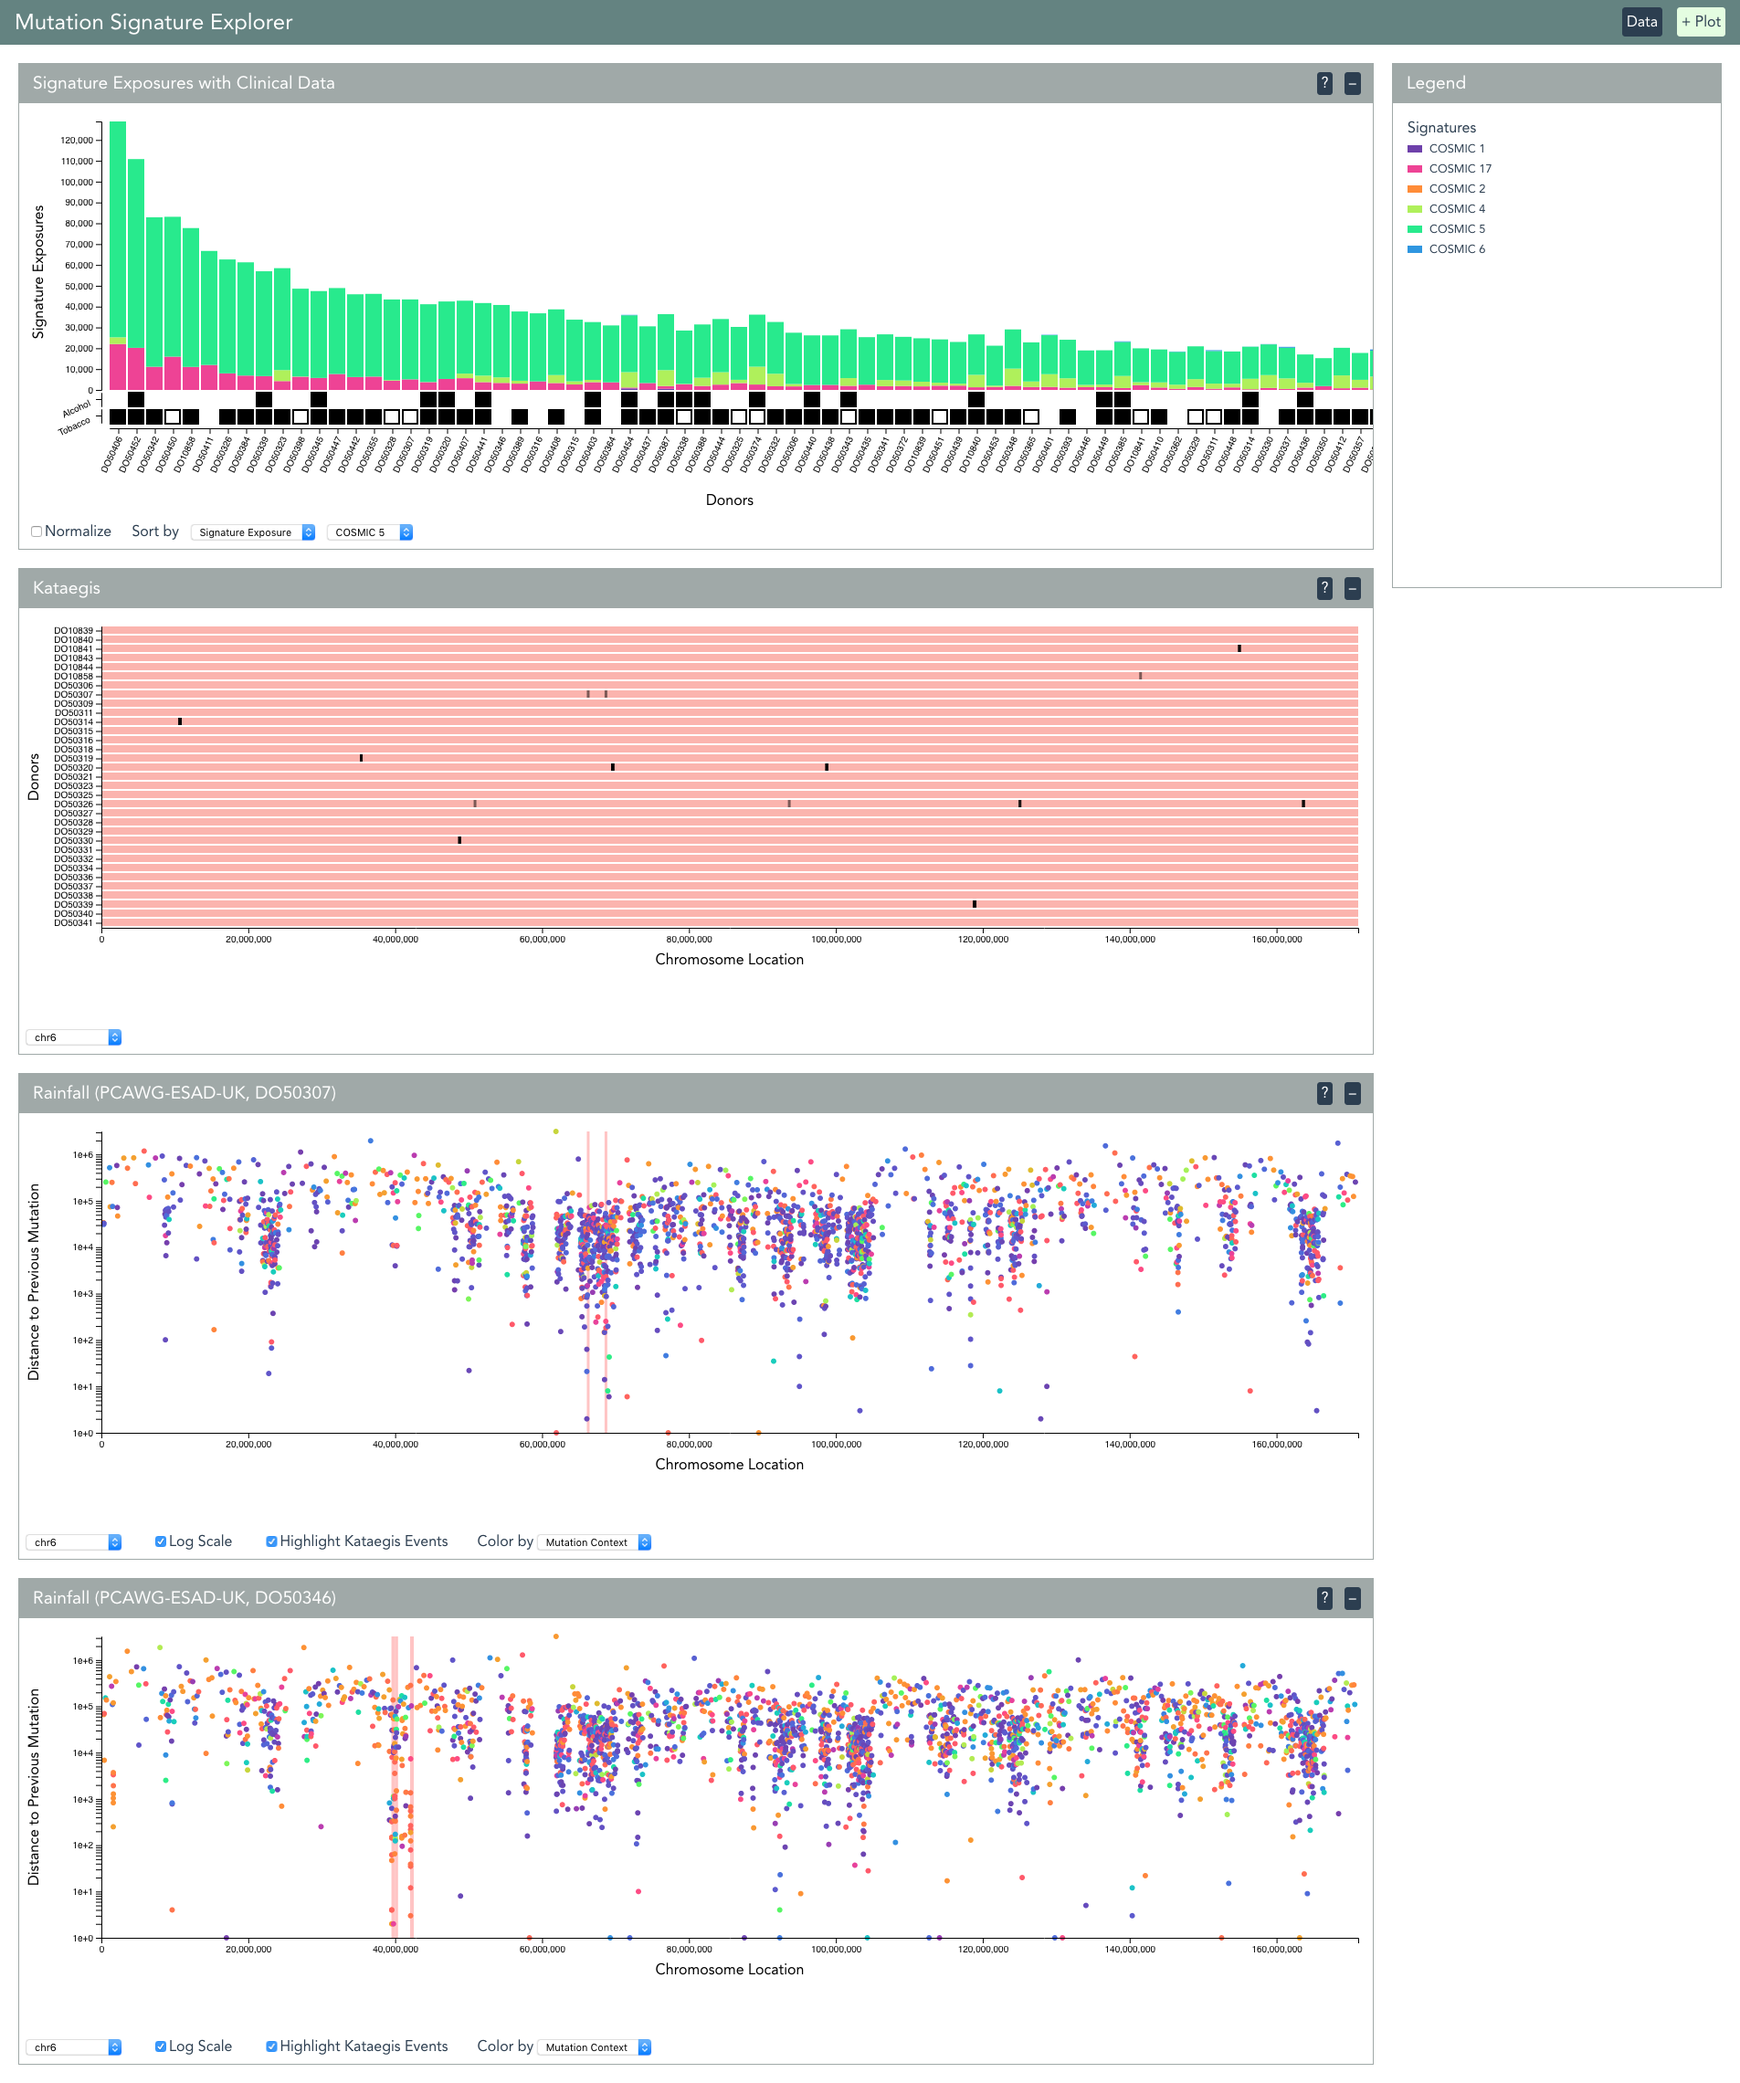
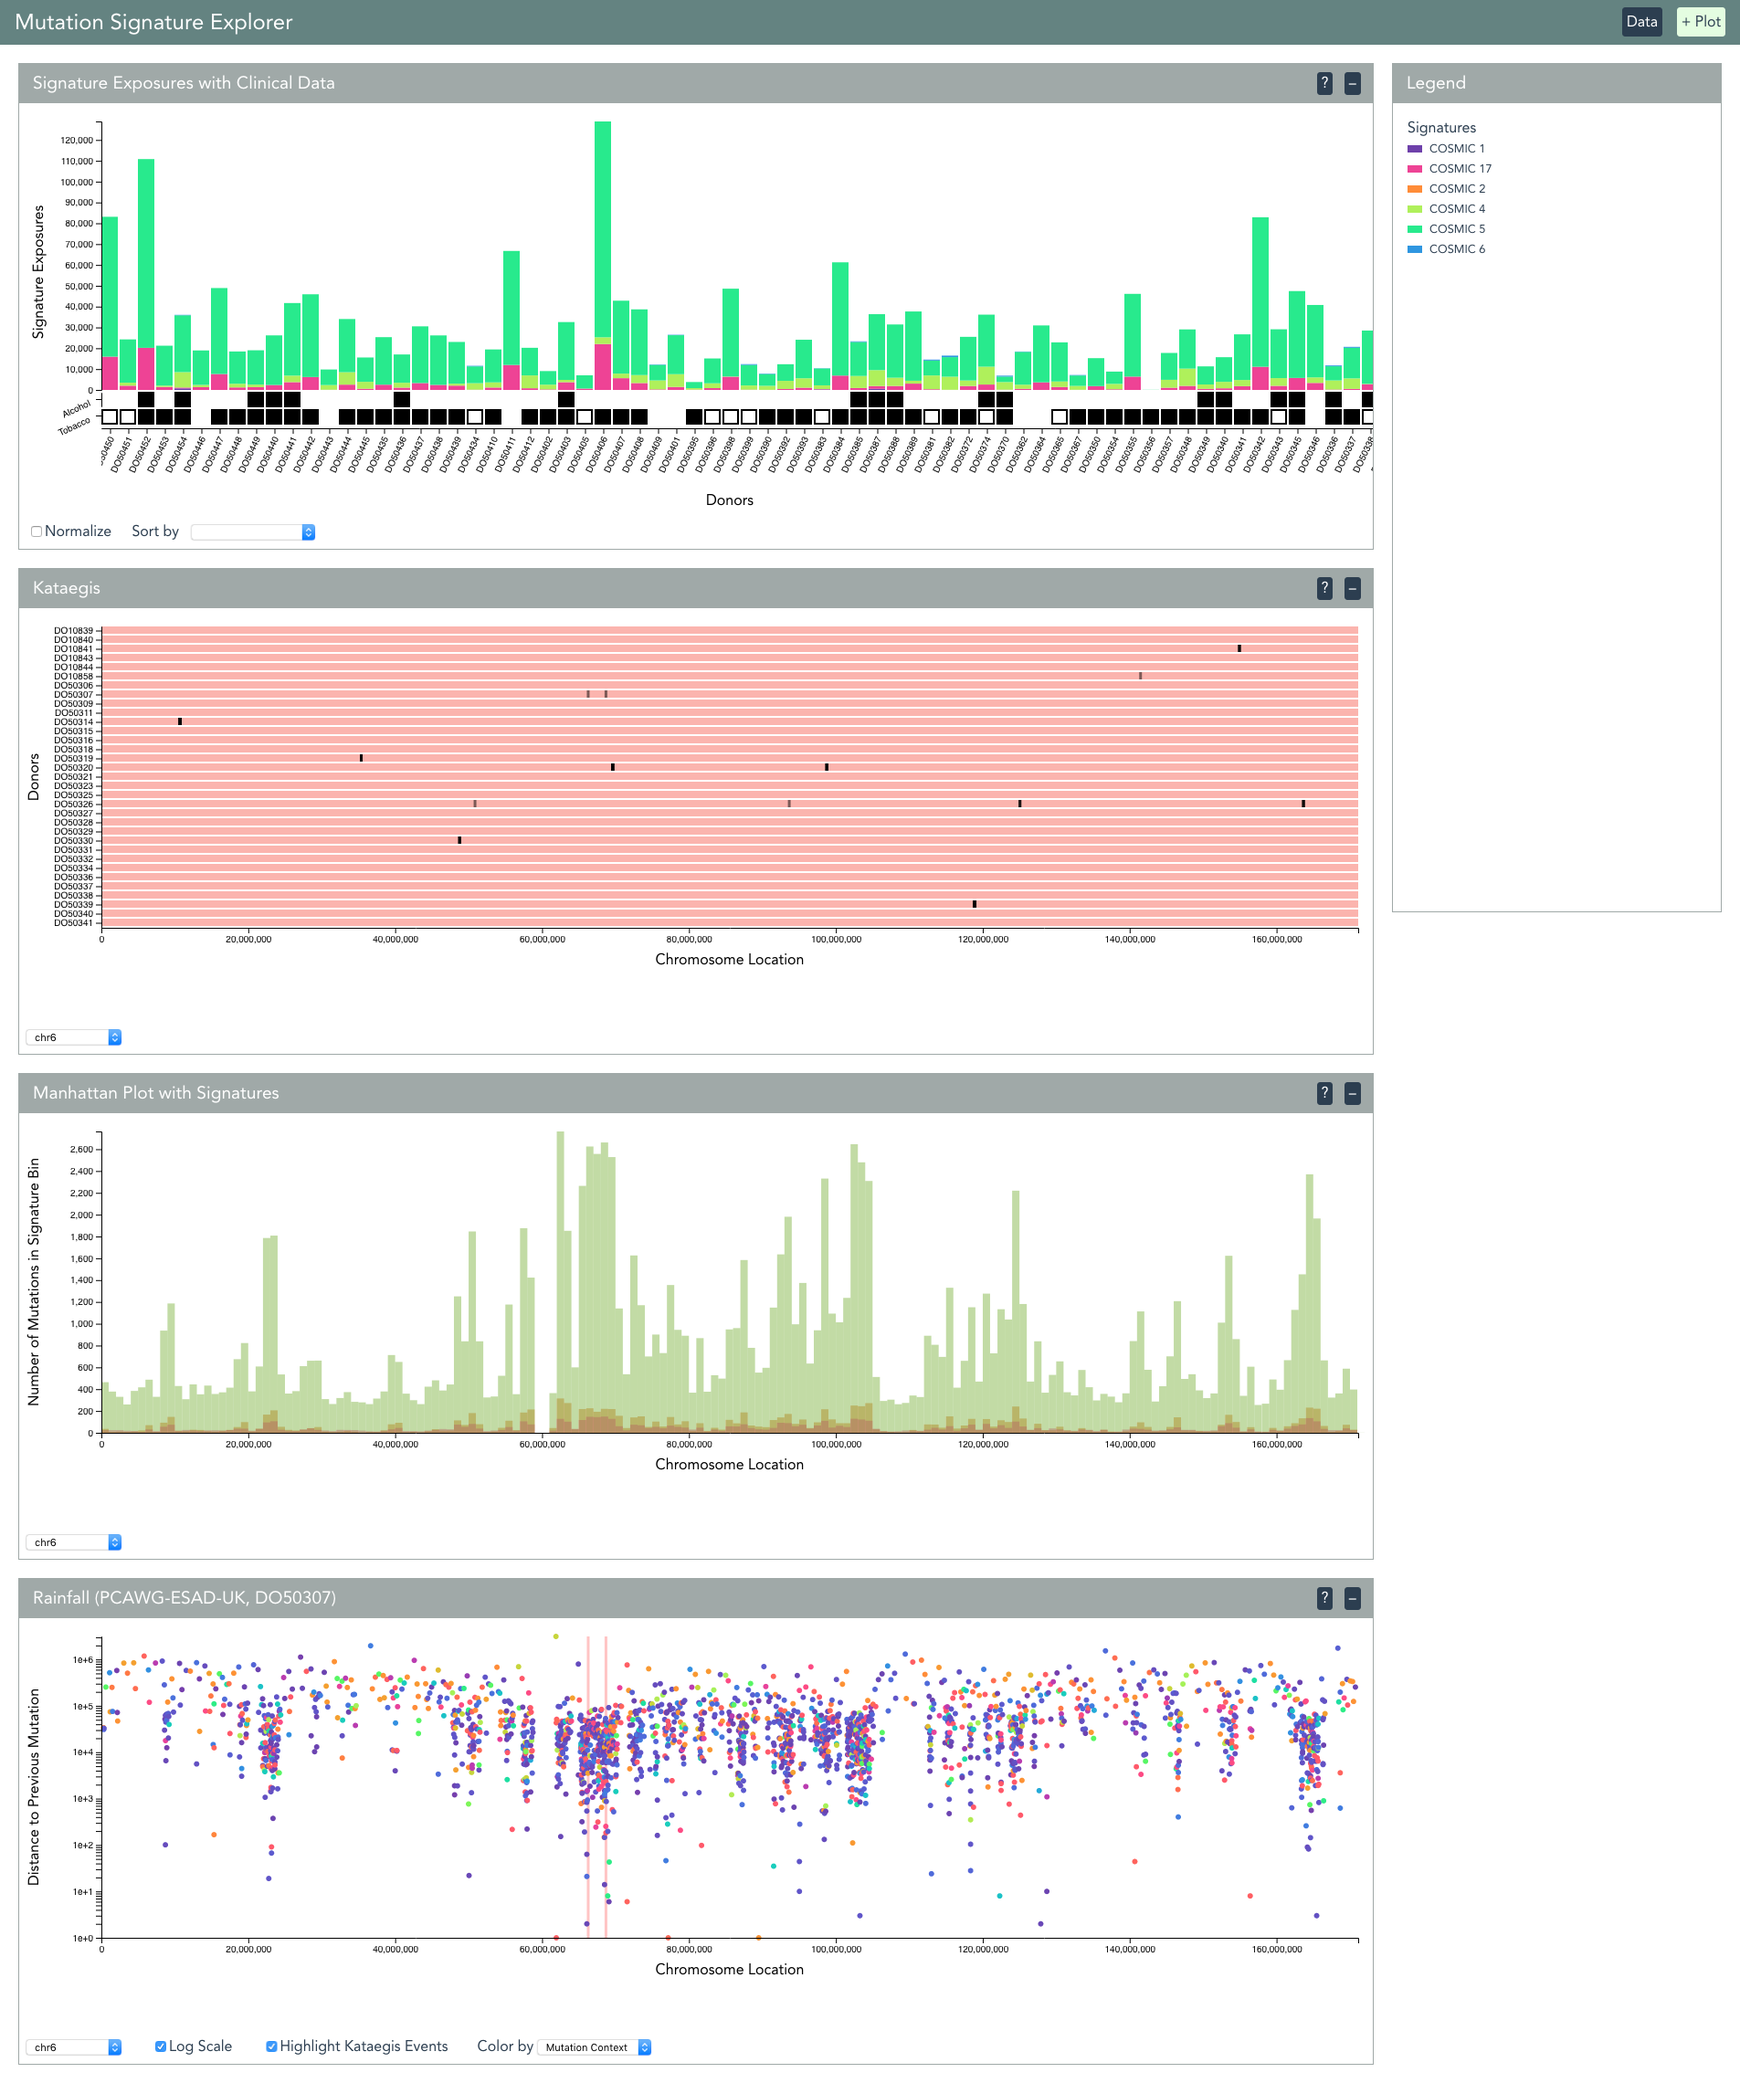
First case study

diff --git a/main.tex b/main.tex
@@ -63,27 +63,38 @@ To our knowledge, this is a new method for exploring mutational signatures along
 
 \end{enumerate}
 
-\begin{figure}
-    \caption{Screenshot}
-    \centering
-    \frame{\includegraphics[width=0.75\columnwidth]{figures/screenshot1.png}}
-\end{figure}
-
 
 \section{Case Study}
 
-\subsection{Tobacco Usage and Mutational Signatures}
+\subsection{Alcohol Usage and Mutational Signatures}
 One use case for this tool is the analysis of relationships between signature exposures and clinical variables.
 Interactive sorting and dynamic calculations of signature exposures allow trends to be observed quickly.
-Connections generally assumed to exist can be verified and examined, such as specific signatures being associated with tobacco usage.
+Although the relationship between liver cancer and alcohol consumption has long been documented \cite{bosch2004primary}, the relationship between mutational signatures and alcohol consumption has not been extensively examined.
+Recently, Li \textit{et al}. 2018 identified a mutational signature based on esophageal squamous cell carcinoma that resembles COSMIC signatures 1, 2, 13 and 16, and is associated with alcohol usage\cite{li2018mutational}.
+To look for a relationship in liver cancer within the Mutation Signature Explorer, the PCAWG Liver Cancer - NCC, JP cohort was selected, along with the COSMIC LICA signatures preset for liver cancer. 
+Then, the Signature Exposures with Clinical Data plot was selected to examine the alcohol usage clinical variable.
+Using the sorting functionality, we first sort by clinical variable $\rightarrow$ alcohol usage.
+With no trends immediately apparent, we can now sort by signature values.
+Sorting by COSMIC signature 12 and normalizing the signature exposures, we can see that only two alcohol-free donors are the first 14 of 28 donors (Figure \ref{fig:caseStudy1_sig12}).
+\begin{figure}[h]
+    \centering
+    \frame{\includegraphics[width=0.75\columnwidth]{figures/case_study1.png}}
+    \caption{Screenshot of Signature Exposures with Clinical Data plot with PCAWG-LINC-JP data, normalized and sorted by COSMIC signature 12}
+    \label{fig:caseStudy1_sig12}
+\end{figure}
+Hovering over the samples and looking at the y-axis, we can see that the contribution of signature 12 ranges from over 10\% to just under 50\% for all samples.
+Using this information, one could perform further statistical analysis on this data or seek out additional liver cancer mutation data to analyze.
 
-Alexandrov \textit{et al}. 2016 finds that smokers exhibit increases in mutations attributed to COSMIC signatures 2, 4, 5, 13, and 16 \cite{alexandrov2016mutational}. 
-Signature 4 in particular ...
+Interestingly, when sorting by COSMIC signatures 1 and 16, signatures both present in liver cancer and similar to that of Li \textit{et al}. 2018, a similar trend in alcohol usage arose (only two alcohol-free donors in the top half of donors).
+However, as one can tell by looking at the legend, the contributions from these signatures are too low to be visible for any sample in the plot.
+
 
 \subsection{Hypermutation and Mutation Category}
 Another use case is the analysis of the relationship between hypermutation and mutation category.
 For SNVs, the mutation category is the left flanking base pair, the mutation reference base pair, the variant base pair, and the right flanking base pair.
 These categories are assigned colors on rainfall plots to allow this type of relationship (or lack thereof) to be quickly spotted.
+
+Connections generally assumed to exist can be verified and examined....
 
 When looking at the kataegis plot on chromosome 1 for the PCAWG-PRAD-UK (Prostate Adenocarcinoma) cohort...
 
@@ -114,6 +125,12 @@ While this software can be run locally, accessing a hosted version may be easier
 Currently, an instance of the Flask-powered web server is deployed to Heroku.
 An instance of the front end (Vue/D3) component is deployed through GitHub pages, and uses Travis CI for continuous integration and deployment.
 This makes access and usage as simple as connecting via a web browser.
+
+\begin{figure}
+    \caption{Screenshot}
+    \centering
+    \frame{\includegraphics[width=0.75\columnwidth]{figures/screenshot1.png}}
+\end{figure}
 
 \section{Future Directions}
 Future development of the Mutation Signature Explorer should include the expansion of functionality through implementation of more plot types.
